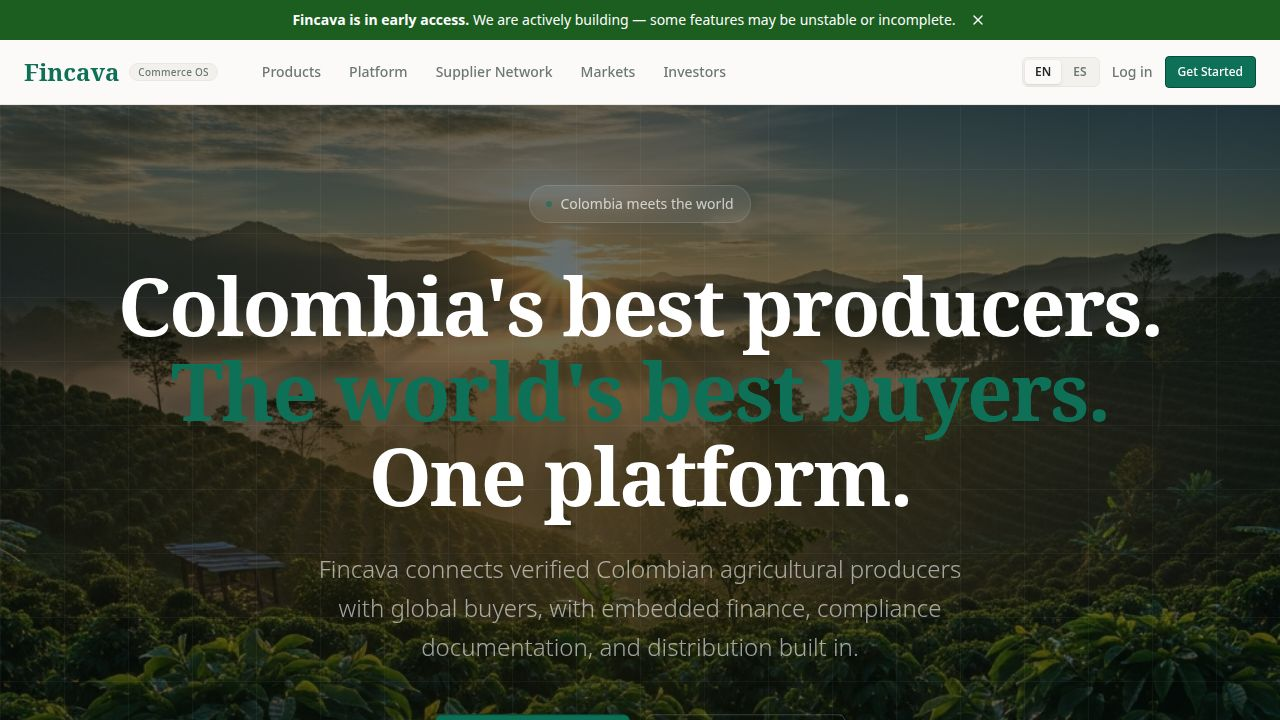
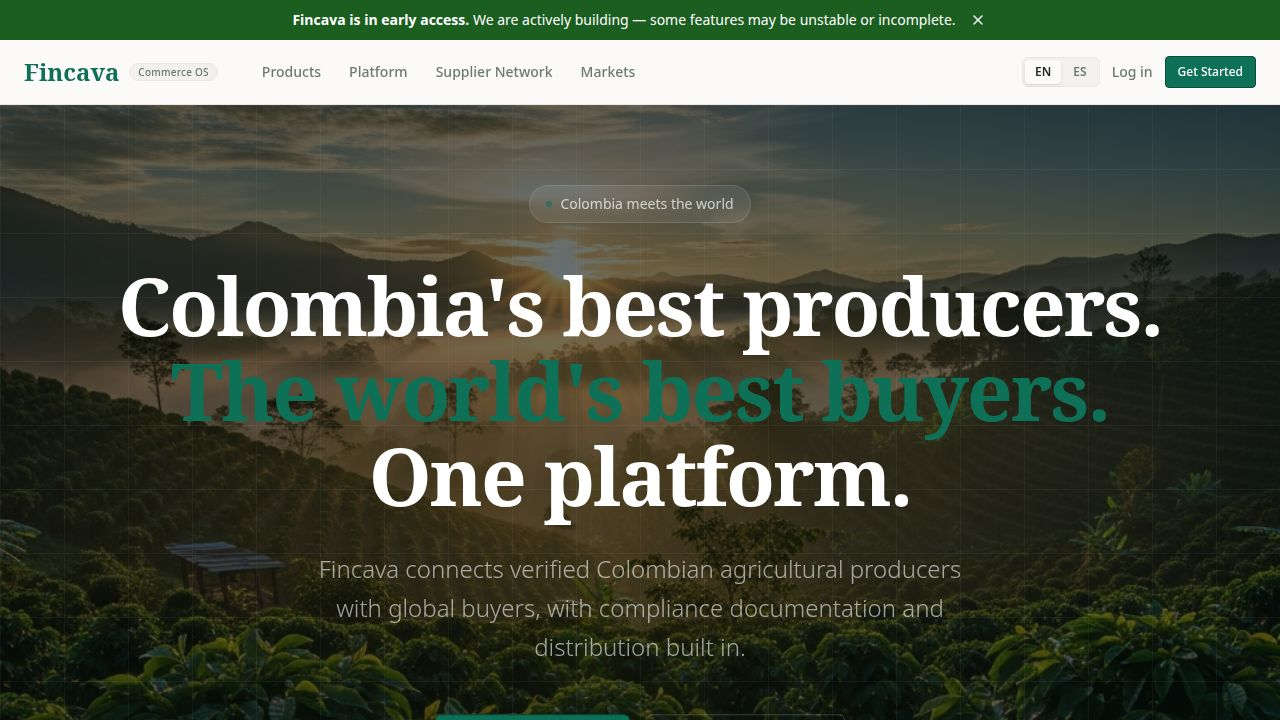
Update website copy to reflect new workflow and remove finance claims
Modify translations and page components to update copy related to "How It Works" and "Platform Layers," removing outdated finance claims and adjusting descriptions for clarity and accuracy.

Replit-Commit-Author: Agent
Replit-Commit-Session-Id: 77543aae-2c12-42aa-8182-5ea0f45f3cc3
Replit-Commit-Checkpoint-Type: full_checkpoint
Replit-Commit-Event-Id: 38c13729-a0e7-4ec6-9fa9-999288c373c4
Replit-Commit-Screenshot-Url: https://storage.googleapis.com/screenshot-production-us-central1/18593ef1-4532-4e16-ae37-4d14ca5ba69c/77543aae-2c12-42aa-8182-5ea0f45f3cc3/hpBiqzC
Replit-Helium-Checkpoint-Created: true

Changed region(s): [[0.25, 0.825, 0.75, 0.8556], [0.3125, 0.8861, 0.6562, 0.9167], [0.5312, 0.0917, 0.5625, 0.1222]]

diff --git a/artifacts/fincava/src/pages/platform.tsx b/artifacts/fincava/src/pages/platform.tsx
@@ -1,6 +1,6 @@
 import { Link } from "wouter";
 import { motion, type Variants } from "framer-motion";
-import { CheckCircle2, Globe, Landmark, Package, ArrowRight, Zap, Shield, BarChart2, Cpu, Database, Network } from "lucide-react";
+import { CheckCircle2, Globe, Landmark, Package, ArrowRight, Zap, Shield, BarChart2, Cpu, Database, Network, FileText } from "lucide-react";
 import { Button } from "@/components/ui/button";
 import { Badge } from "@/components/ui/badge";
 import { ENABLE_FINANCE } from "@/lib/flags";
@@ -34,18 +34,18 @@ const LAYERS = [
     badge: "Layer 02",
     color: "bg-amber-50 border-amber-200 text-amber-700",
     dot: "bg-amber-500",
-    icon: Landmark,
-    title: "Embedded Finance (Launching Soon)",
-    subtitle: "Trade finance infrastructure built directly into every transaction.",
+    icon: FileText,
+    title: "Transaction Coordination",
+    subtitle: "Structured workflows for turning buyer interest into clear, documented sourcing opportunities.",
     features: [
-      "Purchase order financing for verified buyers",
-      "Harvest and pre-shipment producer loans",
-      "Letter of credit (LC) issuance support",
-      "FX conversion at institutional rates",
-      "Escrow-based payment release on delivery confirmation",
-      "Credit scoring via on-platform trade history",
+      "RFQ response coordination",
+      "Product specification alignment",
+      "Order detail confirmation",
+      "Compliance document preparation",
+      "Buyer–supplier communication",
+      "Admin visibility into sourcing progress",
     ],
-    who: "Buyers needing payment terms, producers needing working capital",
+    who: "Buyers, suppliers, and Fincava operators",
   },
   {
     badge: "Layer 03",
@@ -53,14 +53,14 @@ const LAYERS = [
     dot: "bg-sky-500",
     icon: Package,
     title: "Distribution (Launching Soon)",
-    subtitle: "End-to-end logistics and compliance from farm gate to destination port.",
+    subtitle: "Planned partner-supported delivery infrastructure to connect Colombian producers with global import destinations.",
     features: [
-      "Cross-border freight booking (sea, air, multimodal)",
-      "Export documentation automation (phyto, CO, BL)",
-      "Cold-chain and temperature-controlled routing",
-      "Shipment tracking with event notifications",
-      "Customs pre-clearance coordination",
-      "Last-mile coordination in UAE, KSA, and Singapore",
+      "Partner freight coordination (planned)",
+      "Export documentation support",
+      "Cold-chain routing (partner-supported)",
+      "Shipment milestone visibility",
+      "Customs clearance guidance (partner-supported)",
+      "Delivery readiness support for key markets",
     ],
     who: "Suppliers and logistics coordinators",
   },
@@ -68,7 +68,7 @@ const LAYERS = [
 
 const COMPARISON = [
   { capability: "Producer verification", fincava: true, broker: false, traditional: false },
-  { capability: "Embedded trade finance", fincava: true, broker: false, traditional: false },
+  { capability: "Transaction coordination", fincava: true, broker: false, traditional: false },
   { capability: "Direct buyer-producer pricing", fincava: true, broker: false, traditional: false },
   { capability: "Real-time RFQ routing", fincava: true, broker: false, traditional: false },
   { capability: "Compliance intelligence", fincava: true, broker: false, traditional: true },
@@ -107,11 +107,13 @@ export default function Platform() {
             transition={{ duration: 0.6 }}
             className="text-4xl md:text-5xl lg:text-6xl font-serif font-bold mb-6 leading-tight"
           >
-            {ENABLE_FINANCE ? "Three Layers." : "Two Layers."}<br />
+            {ENABLE_FINANCE ? "Three Layers." : "Three Steps."}<br />
             <span className="text-primary">One Operating System.</span>
           </motion.h1>
           <p className="text-lg text-muted-foreground max-w-2xl mx-auto mb-10 leading-relaxed">
-            Fincava is not a marketplace. It's the infrastructure layer that unifies Market Access{ENABLE_FINANCE ? ", Embedded Finance," : ""} and Distribution into a single composable system for emerging market commerce.
+            {ENABLE_FINANCE
+              ? "Fincava is not a marketplace. It's the infrastructure layer that unifies Market Access, Embedded Finance, and Distribution into a single composable system for emerging market commerce."
+              : "Fincava is not a marketplace. It's the sourcing infrastructure that takes buyers and suppliers from verified discovery through transaction coordination to delivery readiness."}
           </p>
           <div className="flex items-center justify-center gap-4 flex-wrap">
             <Link href="/register">
@@ -129,8 +131,8 @@ export default function Platform() {
       {/* Three Layers */}
       <section className="py-20 container mx-auto px-4">
         <div className="text-center mb-14">
-          <h2 className="text-3xl md:text-4xl font-serif font-bold mb-4">{ENABLE_FINANCE ? "The Three System Layers" : "The Platform Layers"}</h2>
-          <p className="text-muted-foreground max-w-xl mx-auto">Each layer solves a distinct infrastructure failure. Together, they eliminate the compounding inefficiencies that make emerging market trade so expensive.</p>
+          <h2 className="text-3xl md:text-4xl font-serif font-bold mb-4">{ENABLE_FINANCE ? "The Three System Layers" : "The Platform Workflow"}</h2>
+          <p className="text-muted-foreground max-w-xl mx-auto">Each step reduces friction in the sourcing process. Together, they help buyers and suppliers move from discovery to order coordination and delivery readiness with greater transparency.</p>
         </div>
         <motion.div
           variants={stagger}

diff --git a/artifacts/fincava/src/i18n/translations.ts b/artifacts/fincava/src/i18n/translations.ts
@@ -67,8 +67,8 @@ const en = {
     },
     howItWorks: {
       label: "How It Works",
-      heading: "Three layers. One seamless trade.",
-      sub: "Every trade on Fincava moves through three integrated layers: from finding each other to getting paid to receiving your goods.",
+      heading: "From discovery to delivery.",
+      sub: "Fincava helps buyers and suppliers move from verified discovery to transaction coordination and delivery readiness through a clear, structured sourcing workflow.",
       layers: [
         {
           step: "Step 01",
@@ -79,17 +79,17 @@ const en = {
         },
         {
           step: "Step 02",
-          title: "Embedded Finance (Launching Soon)",
-          buyerValue: "Pay on milestones with escrow protection. FX handled. No surprise fees.",
-          supplierValue: "Access trade credit against your orders. Get financed before shipment arrives.",
-          capabilities: ["Milestone payment escrow", "Trade credit lines", "FX facilitation", "Invoice factoring"],
+          title: "Transaction Coordination",
+          buyerValue: "Align on pricing, quantities, specifications, and documentation before shipment begins.",
+          supplierValue: "Manage buyer requests, confirm order details, and prepare the information needed for export readiness.",
+          capabilities: ["Order confirmation workflow", "Specification alignment", "Document preparation support", "Buyer–supplier communication"],
         },
         {
           step: "Step 03",
           title: "Distribution (Launching Soon)",
-          buyerValue: "Real-time tracking from farm gate to your port. Customs pre-clearance included.",
-          supplierValue: "Logistics partners coordinated for you. Cold chain, port clearance, last-mile handled.",
-          capabilities: ["Shipment tracking", "Cold-chain coordination", "Customs pre-clearance", "Logistics intelligence"],
+          buyerValue: "Planned shipment visibility from Colombia to your destination port, coordinated through partner logistics networks.",
+          supplierValue: "Future partner-supported logistics coordination to help prepare your export for delivery readiness.",
+          capabilities: ["Shipment milestone visibility (planned)", "Cold-chain partner coordination", "Export document support", "Delivery readiness guidance"],
         },
       ],
       buyersTag: "Buyers",
@@ -714,8 +714,8 @@ const es: typeof en = {
     },
     howItWorks: {
       label: "Cómo Funciona",
-      heading: "Tres capas. Una operación perfecta.",
-      sub: "Cada operación en Fincava fluye a través de tres capas integradas: desde encontrarse hasta cobrar y recibir los bienes.",
+      heading: "Del descubrimiento a la entrega.",
+      sub: "Fincava ayuda a compradores y proveedores a avanzar desde el descubrimiento verificado hasta la coordinación de transacciones y la preparación para la entrega, a través de un flujo de abastecimiento claro y estructurado.",
       layers: [
         {
           step: "Paso 01",
@@ -726,17 +726,17 @@ const es: typeof en = {
         },
         {
           step: "Paso 02",
-          title: "Financiamiento Integrado",
-          buyerValue: "Paga por hitos con protección de escrow. Cambio de divisas incluido. Sin tarifas sorpresa.",
-          supplierValue: "Accede a crédito comercial contra tus pedidos. Finánciarte antes de que llegue el envío.",
-          capabilities: ["Escrow por hitos de pago", "Líneas de crédito comercial", "Facilitación de divisas", "Factoraje de facturas"],
+          title: "Coordinación de Transacciones",
+          buyerValue: "Alinea precios, cantidades, especificaciones y documentación antes de que comience el envío.",
+          supplierValue: "Gestiona solicitudes de compradores, confirma detalles del pedido y prepara la información necesaria para la preparación de exportación.",
+          capabilities: ["Flujo de confirmación de pedidos", "Alineación de especificaciones", "Soporte de preparación de documentos", "Comunicación comprador–proveedor"],
         },
         {
           step: "Paso 03",
           title: "Distribución (Próximamente)",
-          buyerValue: "Seguimiento en tiempo real desde la finca hasta tu puerto. Pre-despacho aduanero incluido.",
-          supplierValue: "Socios logísticos coordinados para ti. Cadena de frío, despacho aduanero y última milla cubiertos.",
-          capabilities: ["Seguimiento de envíos", "Coordinación de cadena de frío", "Pre-despacho aduanero", "Inteligencia logística"],
+          buyerValue: "Visibilidad planificada de envíos desde Colombia hasta tu puerto destino, coordinada a través de redes logísticas de socios.",
+          supplierValue: "Coordinación logística futura con socios para ayudar a preparar tu exportación hacia la disponibilidad de entrega.",
+          capabilities: ["Visibilidad de hitos de envío (planificado)", "Coordinación con socios de cadena de frío", "Soporte de documentos de exportación", "Orientación de preparación para entrega"],
         },
       ],
       buyersTag: "Compradores",

diff --git a/artifacts/fincava/src/pages/home.tsx b/artifacts/fincava/src/pages/home.tsx
@@ -33,7 +33,7 @@ function SectionLabel({ children, light }: { children: React.ReactNode; light?: 
   );
 }
 
-const LAYER_ICONS = [Globe, Landmark, Truck];
+const LAYER_ICONS = [Globe, FileText, Truck];
 const BUYER_FEATURE_ICONS = [ShieldCheck, FileText, BarChart3, Globe];
 const SUPPLIER_FEATURE_ICONS = [Globe, Banknote, Truck, Star];
 const TRACTION_STAT_ICONS = [ShieldCheck, MapPin, Users, BarChart3];
@@ -218,7 +218,6 @@ export default function Home() {
 
           <div className="grid grid-cols-1 lg:grid-cols-3 gap-6">
             {h.howItWorks.layers.map((l, i) => {
-              if (!ENABLE_FINANCE && i === 1) return null;
               const LayerIcon = LAYER_ICONS[i];
               const layerColors = [
                 { color: "from-primary/20 to-primary/5", border: "border-primary/30", badge: "bg-primary/20 text-primary", buyerTag: "text-primary" },